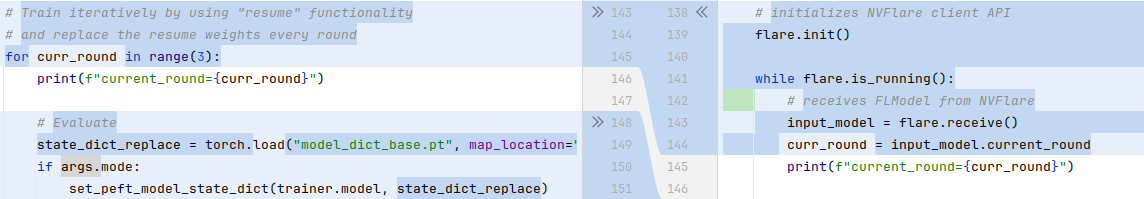
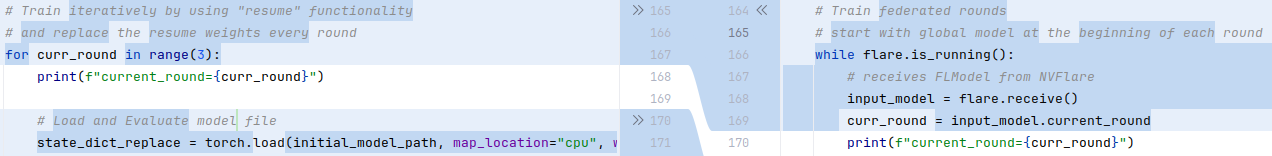
update readme and scripts

diff --git a/examples/advanced/llm_hf/src/hf_sft_peft_fl.py b/examples/advanced/llm_hf/src/hf_sft_peft_fl.py
@@ -63,7 +63,12 @@ def main():
         type=str,
         default="./workspace_federated/llama-3.2-1b-dolly-sft",
     )
-    parser.add_argument("--mode", type=int, default=0)
+    parser.add_argument(
+        "--train_mode",
+        type=str,
+        default="SFT",
+        help="training mode, SFT or PEFT, default to SFT",
+    )
     parser.add_argument("--local_epoch", type=int, default=1)
     parser.add_argument("--clean_up", type=int, default=0)
     args = parser.parse_args()
@@ -88,15 +93,22 @@ def main():
     torch.set_default_dtype(torch.bfloat16)
     model = AutoModelForCausalLM.from_pretrained(
         model_name_or_path,
-        attn_implementation="flash_attention_2",
         device_map="auto",
         use_cache=False,
         torch_dtype=torch.bfloat16,
     )
     torch.set_default_dtype(default_dtype)
 
+    # Train mode
+    if args.train_mode.lower() == "sft":
+        train_mode = 0
+    elif args.train_mode.lower() == "peft":
+        train_mode = 1
+    else:
+        raise ValueError(f"Invalid train_mode: {args.train_mode}, only SFT and PEFT are supported.")
+
     # PEFT specific
-    if args.mode:
+    if train_mode:
         # PEFT configs
         peft_config = LoraConfig(
             lora_alpha=16,
@@ -149,6 +161,8 @@ def main():
     # initializes NVFlare client API
     flare.init()
 
+    # Train federated rounds
+    # start with global model at the beginning of each round
     while flare.is_running():
         # receives FLModel from NVFlare
         input_model = flare.receive()
@@ -164,7 +178,7 @@ def main():
         # evaluation on both trained and received model
         def evaluate(input_weights, mode):
             # Special load func for PEFT
-            if mode:
+            if train_mode:
                 set_peft_model_state_dict(trainer.model, input_weights)
             else:
                 trainer.model.load_state_dict(input_weights)
@@ -173,7 +187,7 @@ def main():
             return metric_score
 
         # evaluate on received global model
-        eval_loss = evaluate(global_model, args.mode)
+        eval_loss = evaluate(global_model, train_mode)
         eval_loss = float(eval_loss["eval_loss"])
 
         # Load global model and previous training states
@@ -185,7 +199,7 @@ def main():
         else:
             # replace local resume weights with global weights
             resume_from_checkpoint_folder = trainer_utils.get_last_checkpoint(trainer.args.output_dir)
-            if args.mode:
+            if train_mode:
                 # PEFT model small, directly save via torch.save
                 resume_model_file_path = os.path.join(resume_from_checkpoint_folder, utils.WEIGHTS_NAME)
                 torch.save(global_model, resume_model_file_path)
@@ -205,7 +219,7 @@ def main():
             trainer.train(resume_from_checkpoint=True)
 
         # compose output model to send back to server
-        if args.mode:
+        if train_mode:
             # PEFT, load PEFT part from trainer model
             out_param = get_peft_model_state_dict(trainer.model)
         else:
@@ -213,7 +227,7 @@ def main():
             out_param = trainer.model.state_dict()
 
         # update the key name sent to global model
-        if not args.mode:
+        if not train_mode:
             for key in list(out_param.keys()):
                 out_param["model." + key] = out_param.pop(key).cpu()
 

diff --git a/examples/advanced/llm_hf/utils/hf_sft_peft_iter.py b/examples/advanced/llm_hf/utils/hf_sft_peft_iter.py
@@ -60,7 +60,12 @@ def main():
         type=str,
         default="./workspace_centralized/llama-3.2-1b-dolly-sft-iter",
     )
-    parser.add_argument("--mode", type=int, default=0)
+    parser.add_argument(
+        "--train_mode",
+        type=str,
+        default="SFT",
+        help="training mode, SFT or PEFT, default to SFT",
+    )
     args = parser.parse_args()
 
     # Dataset
@@ -83,15 +88,22 @@ def main():
     torch.set_default_dtype(torch.bfloat16)
     model = AutoModelForCausalLM.from_pretrained(
         model_name_or_path,
-        attn_implementation="flash_attention_2",
         device_map="auto",
         use_cache=False,
         torch_dtype=torch.bfloat16,
     )
     torch.set_default_dtype(default_dtype)
 
+    # Train mode
+    if args.train_mode.lower() == "sft":
+        train_mode = 0
+    elif args.train_mode.lower() == "peft":
+        train_mode = 1
+    else:
+        raise ValueError(f"Invalid train_mode: {args.train_mode}, only SFT and PEFT are supported.")
+
     # PEFT specific
-    if args.mode:
+    if train_mode:
         # PEFT configs
         peft_config = LoraConfig(
             lora_alpha=16,
@@ -144,7 +156,7 @@ def main():
     # Save base model state_dict, which will be used as the starting
     # weights for each round - to show the weights are loaded correctly
     initial_model_path = os.path.join(args.output_path, "model_dict_base.pt")
-    if args.mode:
+    if train_mode:
         params = get_peft_model_state_dict(model)
     else:
         params = model.state_dict()
@@ -157,7 +169,7 @@ def main():
 
         # Load and Evaluate model file
         state_dict_replace = torch.load(initial_model_path, map_location="cpu", weights_only=True)
-        if args.mode:
+        if train_mode:
             set_peft_model_state_dict(trainer.model, state_dict_replace)
         else:
             trainer.model.load_state_dict(state_dict_replace)
@@ -170,7 +182,7 @@ def main():
         else:
             # replace local resume weights with global weights
             resume_from_checkpoint_folder = trainer_utils.get_last_checkpoint(trainer.args.output_dir)
-            if args.mode:
+            if train_mode:
                 # PEFT model small, directly save via torch.save
                 resume_model_file_path = os.path.join(resume_from_checkpoint_folder, utils.WEIGHTS_NAME)
                 torch.save(state_dict_replace, resume_model_file_path)

diff --git a/examples/advanced/llm_hf/utils/hf_sft_peft.py b/examples/advanced/llm_hf/utils/hf_sft_peft.py
@@ -59,7 +59,12 @@ def main():
         type=str,
         default="./workspace_centralized/llama-3.2-1b-dolly-sft",
     )
-    parser.add_argument("--mode", type=int, default=0)
+    parser.add_argument(
+        "--train_mode",
+        type=str,
+        default="SFT",
+        help="training mode, SFT or PEFT, default to SFT",
+    )
     args = parser.parse_args()
 
     # Dataset
@@ -82,15 +87,22 @@ def main():
     torch.set_default_dtype(torch.bfloat16)
     model = AutoModelForCausalLM.from_pretrained(
         model_name_or_path,
-        attn_implementation="flash_attention_2",
         device_map="auto",
         use_cache=False,
         torch_dtype=torch.bfloat16,
     )
     torch.set_default_dtype(default_dtype)
 
+    # Train mode
+    if args.train_mode.lower() == "sft":
+        train_mode = 0
+    elif args.train_mode.lower() == "peft":
+        train_mode = 1
+    else:
+        raise ValueError(f"Invalid train_mode: {args.train_mode}, only SFT and PEFT are supported.")
+
     # PEFT specific
-    if args.mode:
+    if train_mode:
         # PEFT configs
         peft_config = LoraConfig(
             lora_alpha=16,

diff --git a/examples/advanced/llm_hf/sft_job.py b/examples/advanced/llm_hf/sft_job.py
@@ -49,11 +49,9 @@ def main():
     if train_mode.lower() == "sft":
         job = FedJob(name="llm_hf_sft", min_clients=num_clients)
         output_path = "sft"
-        mode = 0
     elif train_mode.lower() == "peft":
         job = FedJob(name="llm_hf_peft", min_clients=num_clients)
         output_path = "peft"
-        mode = 1
     else:
         raise ValueError(f"Invalid train_mode: {train_mode}, only SFT and PEFT are supported.")
 
@@ -82,7 +80,7 @@ def main():
         data_path_valid = os.path.join(args.data_path, client_id, "validation.jsonl")
         runner = ScriptRunner(
             script=train_script,
-            script_args=f"--model_name_or_path {model_name_or_path} --data_path_train {data_path_train} --data_path_valid {data_path_valid} --output_path {output_path} --mode {mode} --clean_up {clean_up}",
+            script_args=f"--model_name_or_path {model_name_or_path} --data_path_train {data_path_train} --data_path_valid {data_path_valid} --output_path {output_path} --train_mode {train_mode} --clean_up {clean_up}",
         )
         job.to(runner, site_name, tasks=["train"])
 

diff --git a/examples/advanced/llm_hf/README.md b/examples/advanced/llm_hf/README.md
@@ -1,4 +1,4 @@
-# LLM Tuning via HuggingFace SFT Trainer
+# LLM Tuning via HuggingFace SFT/PEFT APIs
 This example shows how to use [NVIDIA FLARE](https://nvidia.github.io/NVFlare) for Large Language Models (LLMs) tuning tasks. It illustrates how to adapt a local training script with [HuggingFace](https://huggingface.co/) trainer to NVFlare.
 
 ## Introduction 
@@ -14,12 +14,20 @@ We would like to showcase two key points in this example:
 
 We conducted these experiments on a single 48GB RTX 6000 Ada GPU. 
 
+To use Llama-3.2-1B model, please request access to the model here https://huggingface.co/meta-llama/Llama-3.2-1B and login with an access token using huggingface-cli.
+
+
 ## Setup
 Please make sure you set up virtual environment following [example root readme](../../README.md).
 Install additional requirements (if you already have a specific version of nvflare installed in your environment, you may want to remove nvflare in the requirements to avoid reinstalling nvflare):
 ```
 python3 -m pip install -r requirements.txt
 ```
+flash-attn cannot be installed together with others, and needs to be installed alone after the above step:
+```
+python3 -m pip install flash-attn --no-build-isolation
+```
+Git LFS is also necessary for downloads, please follow the steps in this [link](https://github.com/git-lfs/git-lfs/blob/main/INSTALLING.md).
 
 ## Data Preparation
 We download and preprocess (consistent with our [NeMo example](../../../integration/nemo/examples/supervised_fine_tuning/README.md), we follow the same preprocessing steps).
@@ -41,17 +49,16 @@ To illustrate the adaptation process, we use a single dataset [databricks-dolly-
 ### One-call training
 Centralized trainings, as the baseline for comparison with other results, are done with the following command:
 ```
-python3 ./utils/hf_sft_peft.py --output_path ./workspace/llama-3.2-1b-dolly-cen_sft --mode 0
-python3 ./utils/hf_sft_peft.py --output_path ./workspace/llama-3.2-1b-dolly-cen_peft --mode 1
+python3 ./utils/hf_sft_peft.py --output_path ./workspace/llama-3.2-1b-dolly-cen_sft --train_mode SFT
+python3 ./utils/hf_sft_peft.py --output_path ./workspace/llama-3.2-1b-dolly-cen_peft --train_mode PEFT
 ```
 
 ### Adaptation Step 1: iterative training
-To adapt the centralized training script to federated application, under `launch_once = true` setting, we first need to "break" the single call to `trainer.train()` into iterative calls, one for each round of training.
+To adapt the centralized training script to federated application, we first need to "break" the single call to `trainer.train()` into iterative calls, one for each round of training.
 For this purpose, we provided `utils/hf_sft_peft_iter.py` as an example, which is a modified version of `utils/hf_sft_peft.py`.
 Their differences are highlighted below:
 
-![diff](./figs/diff_1.png)
-![diff](./figs/diff_2.png)
+![diff](./figs/diff.png)
 
 Note that the `trainer.train()` call is replaced by a `for` loop, and the three training epochs becomes three rounds, one epoch per round. 
 
@@ -65,8 +72,8 @@ If the intended model weights (serving as the starting point for each round, the
 
 To run iterative training, we use the following command:
 ``` 
-python3 ./utils/hf_sft_peft_iter.py --output_path ./workspace/llama-3.2-1b-dolly-cen_sft-iter --mode 0
-python3 ./utils/hf_sft_peft_iter.py --output_path ./workspace/llama-3.2-1b-dolly-cen_peft-iter --mode 1
+python3 ./utils/hf_sft_peft_iter.py --output_path ./workspace/llama-3.2-1b-dolly-cen_sft-iter --train_mode SFT
+python3 ./utils/hf_sft_peft_iter.py --output_path ./workspace/llama-3.2-1b-dolly-cen_peft-iter --train_mode PEFT
 ```
 
 The SFT curves are shown below, black for single call, blue for iterative. We can see the "zig-zag" pattern in the iterative training loss curve.
@@ -103,8 +110,8 @@ python3 sft_job.py --client_ids dolly alpaca oasst1 --data_path ${PWD}/dataset -
 
 For comparison, we run the other two sites in centralized training mode:
 ```
-python3 ./utils/hf_sft_peft.py --data_path_train ./dataset/alpaca/training.jsonl --data_path_valid ./dataset/alpaca/validation.jsonl --output_path ./workspace/llama-3.2-1b-alpaca-cen_sft --mode 0
-python3 ./utils/hf_sft_peft.py --data_path_train ./dataset/oasst1/training.jsonl --data_path_valid ./dataset/oasst1/validation.jsonl --output_path ./workspace/llama-3.2-1b-oasst1-cen_sft --mode 0
+python3 ./utils/hf_sft_peft.py --data_path_train ./dataset/alpaca/training.jsonl --data_path_valid ./dataset/alpaca/validation.jsonl --output_path ./workspace/llama-3.2-1b-alpaca-cen_sft --train_mode SFT
+python3 ./utils/hf_sft_peft.py --data_path_train ./dataset/oasst1/training.jsonl --data_path_valid ./dataset/oasst1/validation.jsonl --output_path ./workspace/llama-3.2-1b-oasst1-cen_sft --train_mode SFT
 ```
 
 The training loss curves are shown below:
@@ -117,3 +124,19 @@ Oasst1:
 ![sft](./figs/fl_sft_oasst1.png)
 
 As shown, federated training with multiple clients (lines with three sections) can achieve comparable or better results w.r.t. training loss to individual site's centralized trainings (continuous curves), demonstrating the effectiveness of federated learning.
+
+Similarly for PEFT, we can run the following command:
+```
+python3 ./utils/hf_sft_peft.py --data_path_train ./dataset/alpaca/training.jsonl --data_path_valid ./dataset/alpaca/validation.jsonl --output_path ./workspace/llama-3.2-1b-alpaca-cen_peft --train_mode PEFT
+python3 ./utils/hf_sft_peft.py --data_path_train ./dataset/oasst1/training.jsonl --data_path_valid ./dataset/oasst1/validation.jsonl --output_path ./workspace/llama-3.2-1b-oasst1-cen_peft --train_mode PEFT
+python3 sft_job.py --client_ids dolly alpaca oasst1 --data_path ${PWD}/dataset --workspace_dir ${PWD}/workspace/hf_peft_multi --job_dir ${PWD}/workspace/jobs/hf_peft_multi --train_mode PEFT --threads 1
+```
+
+The training loss curves are shown below:
+
+Dolly:
+![peft](./figs/peft_dolly.png)
+Alpaca:
+![peft](./figs/peft_alpaca.png)
+Oasst1:
+![peft](./figs/peft_oasst1.png)
